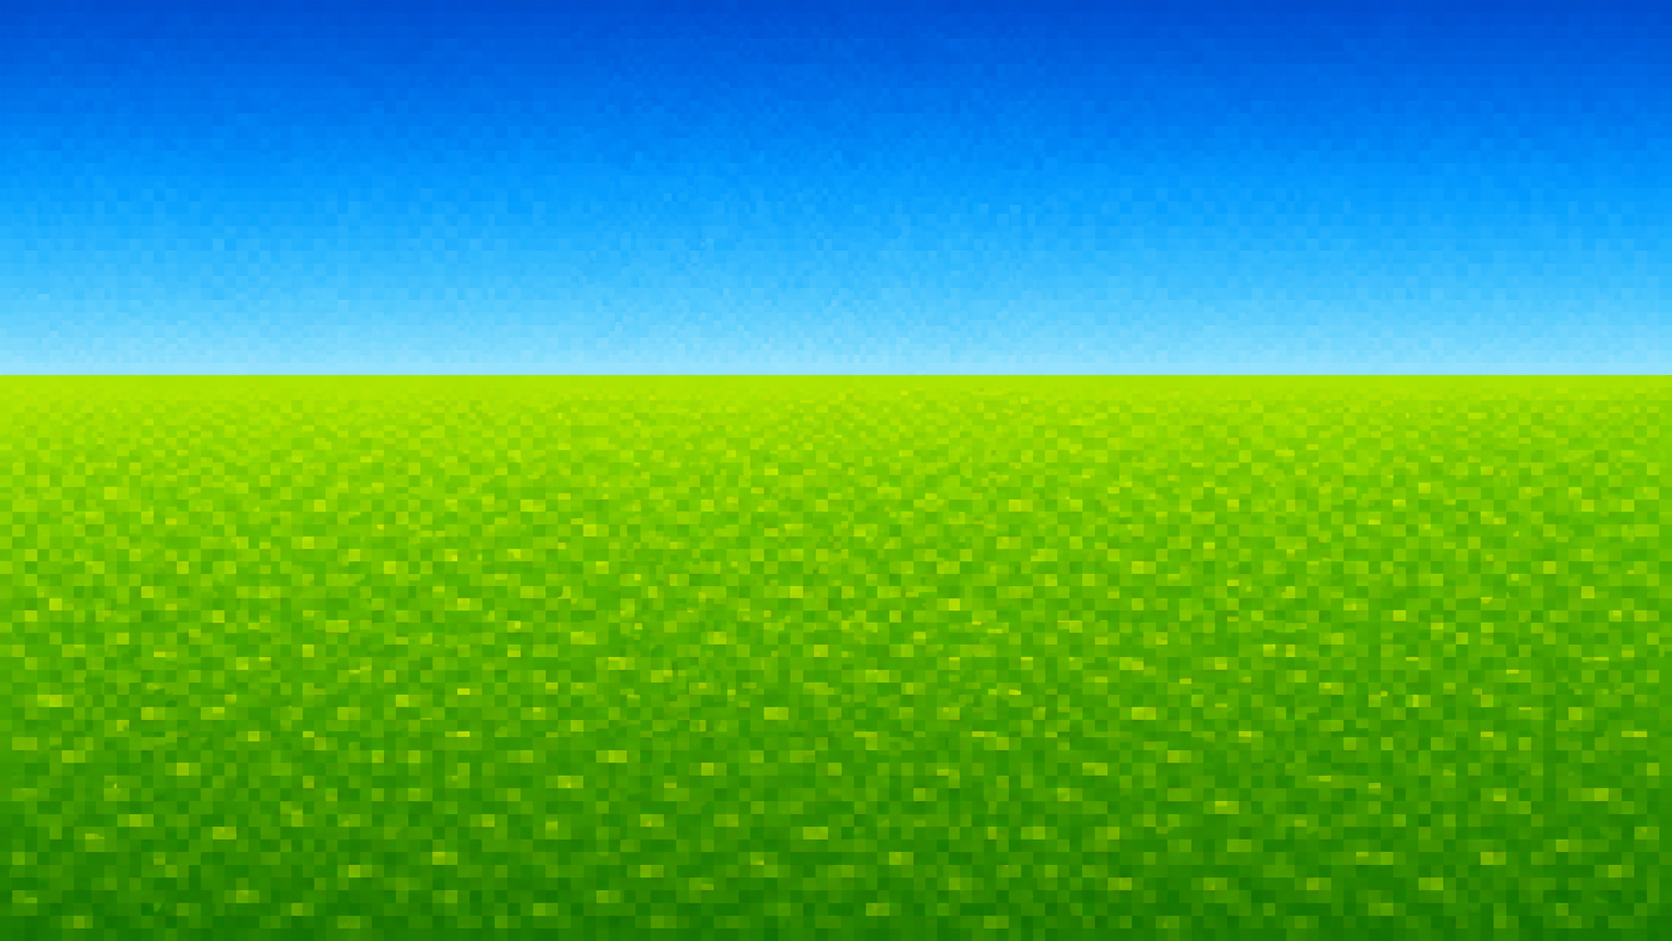
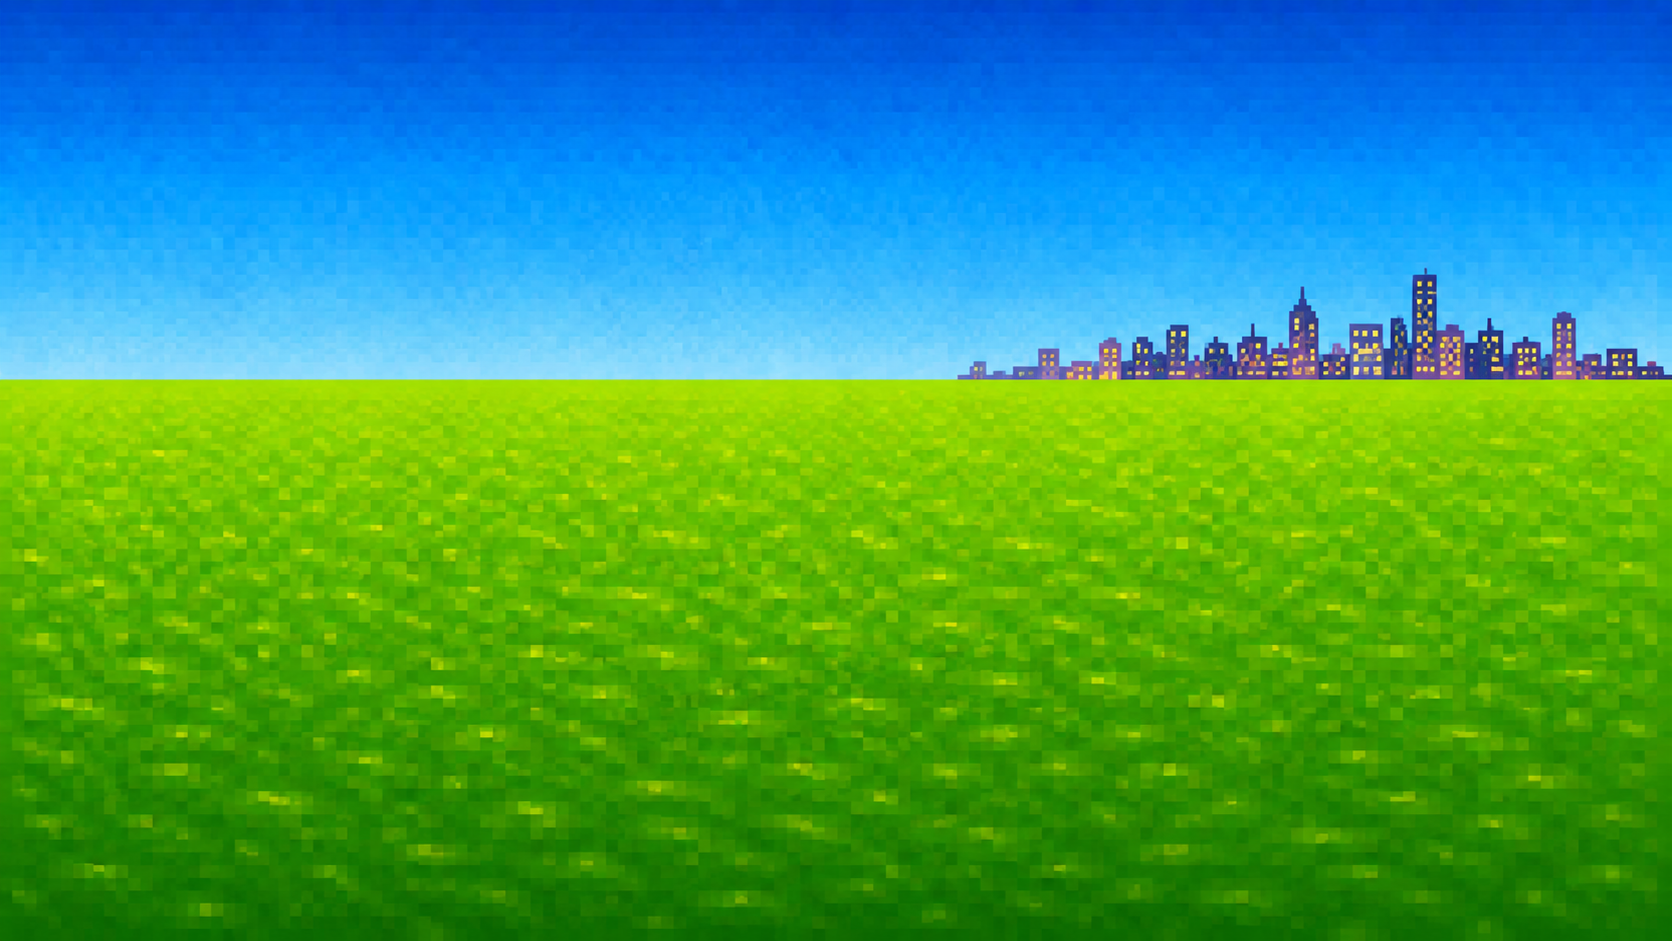
Pievienoju pilsētu, saules paneli un sanu pogu(nefunkcione)

diff --git a/index.html b/index.html
@@ -7,6 +7,8 @@
 <body>
     <img class="spin" id="saule" src="1_saules_kadrs.png" alt="saule">
     <img id="fons" src="fons.png" alt="fons">
+    <img src="saules_panelis_lvl1.png" alt="pirmais_lvl" id="start">
+    <Button id="sanu_verejs"></Button>
 </body>
 <script src="script.js">
 </script>

diff --git a/style.css b/style.css
@@ -26,3 +26,19 @@ body{
     object-fit: cover;
     z-index: -1;
 }
+
+#start {
+    width: 450px;
+    position: fixed;
+    left: 35%;
+    top: 40%;
+}
+
+#sanu_verejs {
+    width: 30px;
+    height: 50PX;
+    border-color: black;
+    position: absolute;
+    right: 0;
+    top: 45%;
+}

diff --git a/script.js b/script.js
@@ -1,7 +1,9 @@
 let x = 1;
-const maksimalais = 4;
+const maksimalais_saulei = 4;
+const maksimalais_fonam = 3;
 
 setInterval(() => {
-    x = (x % maksimalais) + 1;
+    x = (x % maksimalais_saulei) + 1;
     document.getElementById('saule').src = x + "_saules_kadrs.png";
 }, 100);
+
